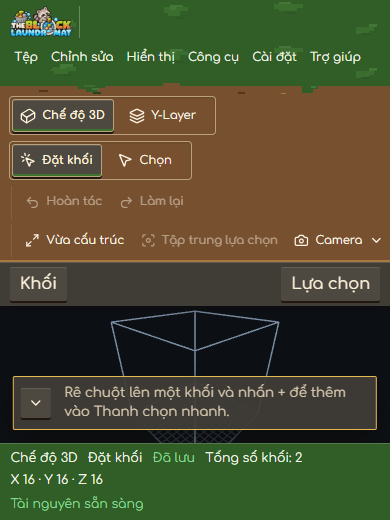
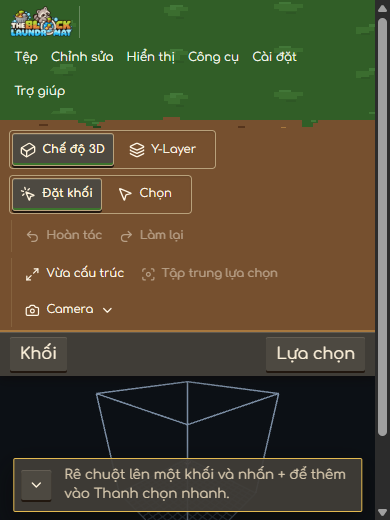
fix: preserve narrow workspace camera controls

diff --git a/Frontend/src/app/features/editor/shell/editor-shell.component.scss b/Frontend/src/app/features/editor/shell/editor-shell.component.scss
@@ -458,7 +458,7 @@
 }
 
 @media (max-width: 560px) and (max-height: 700px) {
-  :host-context([data-font-size='large']) .editor-shell {
+  .editor-shell {
     height: auto;
     min-height: 100dvh;
     grid-template-rows: auto minmax(12rem, 1fr) auto;

diff --git a/Frontend/src/app/features/editor/shell/editor-chrome.component.scss b/Frontend/src/app/features/editor/shell/editor-chrome.component.scss
@@ -505,7 +505,7 @@
     min-width: 10.25rem;
   }
 
-  :host-context([data-font-size='large']) .camera-actions {
+  .camera-actions {
     flex: 1 1 100%;
     flex-wrap: wrap;
     max-width: 100%;

diff --git a/Docs/design/workspace-renovation/WORKSPACE-UI-ACCEPTANCE-INVENTORY.md b/Docs/design/workspace-renovation/WORKSPACE-UI-ACCEPTANCE-INVENTORY.md
@@ -34,8 +34,8 @@ browser pass and the earlier captures catalogued in
 | Help, shortcuts, dialogs                                          | Existing help and shortcut UI recorded; shared close control is now neutral                                | Confirm close/cancel/apply/save behaviors after style changes                                                               | Settings and Shortcuts Help focus return verified; recheck remaining dialogs and reduced motion                               | Medium                     | Current Settings/Help focus-return captures plus earlier captures in [README](README.md)                                              |
 | Context menus, tooltips, overlays                                 | Existing menu stacking fix, tooltip, Asset Manager help, and select popup states documented                | All six application menus are reachable at 320 px in Vietnamese; long File labels wrap and tall popovers scroll internally | Menus and selects dismiss on keyboard focus changes; nested Escape closes the active popup without dismissing its owner         | Medium                     | [Current menu, help, and select evidence](evidence/current-run-20261017/README.md) plus prior context-menu captures in [README](README.md) |
 | Loading, empty, error, warning, success states                    | Several states have dedicated recorded captures                                                            | Current empty Groups/Block Usage and Quick Bar add/remove states verified                                                   | Recheck live regions and recovery actions                                                                                     | Medium                     | Current captures plus state notes in [README](README.md)                                                                              |
-| Responsive layout and sidebar resizing                            | Dark shell and keyboard focus captured at 1600×900 and 780×437; Large-font shell checked at 390×520 across four themes and at 390×600/320×520 in Craft | Arrow keys resize within the reported range; short mobile layout scrolls vertically, preserves a 12rem editor body, and keeps Camera controls and Quick Bar clear of drawer openers | Separators expose localized names/ranges; focus transfers to the matching drawer opener when the handle hides                  | Low                        | [Large-font responsive captures and measurements](evidence/current-run-20261017/README.md#large-workspace-font-at-narrow-and-short-viewports); saved widths restored to 260/230 px |
-| Preferences, locale, fonts, workspace backgrounds                 | All four themes and both locales captured at 1600×900; Comfortaa compact shell at 780×437; all fonts at 390×520 EN/VI in Minecraft theme; Large font checked across all themes/locales at 390×520 plus Craft/Vietnamese at 320×520 and 390×600 | Font fit in other themes at narrow widths and independent Dark/Light/Reality background choices remain open             | Menu-item focus checked in all theme/locale combinations; formal contrast and Small-font size checks remain open               | Medium                  | [Theme/font and viewport matrices](evidence/current-run-20261017/README.md#workspace-theme-and-font-matrix) and [Large-font responsive check](evidence/current-run-20261017/README.md#large-workspace-font-at-narrow-and-short-viewports) |
+| Responsive layout and sidebar resizing                            | Dark shell and keyboard focus captured at 1600×900 and 780×437; normal and Large font checked at 390×520 across four themes | Camera actions wrap at narrow widths for all fonts; when a short screen needs more room the page scrolls and keeps a 12rem editor body, separating Quick Bar from drawer openers | Separators expose localized names/ranges; focus transfers to the matching drawer opener when the handle hides                  | Low                        | [Narrow font matrix](evidence/current-run-20261017/README.md#narrow-workspace-font-sample) and [Large-font responsive captures](evidence/current-run-20261017/README.md#large-workspace-font-at-narrow-and-short-viewports); saved widths restored to 260/230 px |
+| Preferences, locale, fonts, workspace backgrounds                 | Normal-size 3-font/4-theme EN/VI matrix captured at 390×520; Large font checked across all themes/locales at 390×520 plus Craft/Vietnamese at 320×520 and 390×600 | Narrow font and Camera fit verified at 390 px; 320 px normal and Large Craft/Vietnamese also checked; independent Dark/Light/Reality background choices remain open | Menu-item focus checked in all theme/locale combinations; formal contrast and Small-font size checks remain open               | Medium                  | [Narrow font matrix](evidence/current-run-20261017/README.md#narrow-workspace-font-sample), [theme/font matrix](evidence/current-run-20261017/README.md#workspace-theme-and-font-matrix), and [Large-font responsive check](evidence/current-run-20261017/README.md#large-workspace-font-at-narrow-and-short-viewports) |
 | Animation and reduced motion                                      | Default and reduced-motion states captured for Projects and Workspace menus                                | No layout change between motion preferences                                                                                 | The app-wide rule clamps animations and transitions to 1 ms and disables smooth scrolling; remaining animated states still need a pass | Low | [Reduced-motion captures and computed styles](evidence/current-run-20261017/README.md#reduced-motion-across-projects-and-workspace); check remaining animated states and locales |
 | Renderer, large structures, project data                          | Existing 110,592-block browser evidence is recorded                                                        | No renderer, persistence, or domain behavior changed in this pass                                                           | Not applicable to current source edits                                                                                        | Low                        | Earlier renderer evidence in [README](README.md); rerun benchmark only if renderer code changes                                       |
 
@@ -49,7 +49,7 @@ browser pass and the earlier captures catalogued in
 | Application menu focus across themes and locales | Help menu first-item focus ring visible in all four themes and both English and Vietnamese; labels fit at 1600×900 without horizontal overflow | [Eight-state focus matrix](evidence/current-run-20261017/README.md#application-menu-focus-across-themes-and-locales); formal contrast ratios, other menu items, fonts, and viewports remain open |
 | Workspace typography combinations | All 12 theme/font combinations and both English and Vietnamese locales rendered with loaded fonts and no document horizontal overflow at 1600×900 | [24-state Workspace font matrix](evidence/current-run-20261017/README.md#workspace-theme-and-font-matrix); narrow viewport, Small/Large font-size settings, and formal contrast checks remain open |
 | Compact Workspace shell | Closed shell wraps its toolbar, exposes drawer openers, and has no document overflow across four themes and EN/VI at 780×437 | [Eight-state compact shell matrix](evidence/current-run-20261017/README.md#compact-workspace-shell-across-themes-and-locales); drawer contents are handled by their own viewport checks |
-| Narrow Workspace font sample | All three fonts loaded without document overflow at 390×520 in Minecraft theme, EN/VI; Vietnamese header, toolbar, and status bar wrap to extra rows | [Six-state narrow font sample](evidence/current-run-20261017/README.md#narrow-workspace-font-sample); other themes at narrow widths remain open |
+| Narrow Workspace font sample | All three fonts loaded at 390×520 in all four themes and EN/VI; no horizontal overflow, clipped Camera buttons, or Quick Bar/drawer overlap; Comfortaa/Vietnamese scrolls vertically to preserve the editor | [24-state narrow font matrix and 320 px capture](evidence/current-run-20261017/README.md#narrow-workspace-font-sample); 320 px checks for the remaining font/theme pairs and Small font-size settings remain open |
 | Large font at narrow and short viewports | Camera controls fit across all four themes and EN/VI at 390×520; at 320×520 the page scrolls and Quick Bar remains clear of drawer openers | [Before/after, theme, and scrolled captures with geometry](evidence/current-run-20261017/README.md#large-workspace-font-at-narrow-and-short-viewports); other themes at 320/600 and Small-font settings remain open |
 | Project Diagnostics and About dialogs | Both Escape paths close the dialog and return visible focus to Tools or Help; no focus-return issue found | [Diagnostics and About focus-return captures](evidence/current-run-20261017/README.md#project-diagnostics-and-about-focus-return) |
 | Reduced motion across Projects and Workspace | The project-row transition dropped from 120 ms to 1 ms; menu entry animation and trigger transitions also reduce to 1 ms | [Default/reduced captures and computed-style measurements](evidence/current-run-20261017/README.md#reduced-motion-across-projects-and-workspace) |
@@ -90,8 +90,8 @@ browser pass and the earlier captures catalogued in
   and offer a keyboard-accessible Clear search action that restores focus.
 - On narrow viewports, sidebar drawers cover the viewport so their controls and
   results are no longer clipped by the shorter editor work area.
-- With Large font on a narrow viewport, Camera actions wrap within the toolbar.
-  On short screens the shell scrolls vertically and retains a minimum editor
+- On narrow viewports, Camera actions wrap within the toolbar for every font.
+  On short screens the shell grows only as needed and retains a minimum editor
   body height, keeping the Quick Bar below the mobile drawer openers.
 - Native Tab reaches the last virtualized Block Browser item; its compact-row
   quick-add tooltip now flips above the control and remains visible.

diff --git a/Docs/design/workspace-renovation/evidence/current-run-20261017/README.md b/Docs/design/workspace-renovation/evidence/current-run-20261017/README.md
@@ -68,20 +68,40 @@ font variations are covered by separate checks or remain open below.
 
 ## Narrow Workspace font sample
 
-The Minecraft theme was checked at 390×520 in English and Vietnamese with
-Comfortaa, Chakra Petch, and Pangolin. Each font loaded, and Chrome reported no
-document-level horizontal or vertical overflow. The Vietnamese header,
-toolbar, and status bar wrap onto additional rows to keep their labels in the
-viewport. The editor canvas, Quick Bar, and collapsed Blocks/Selection openers
-remain visible. This is a focused small-screen font sample, not a full
-four-theme/font matrix. Large-font behavior is checked separately below;
-Small-font coverage remains open.
+All four themes were checked at 390×520 with Comfortaa, Chakra Petch, and
+Pangolin in English and Vietnamese (24 states). Every font loaded; no state had
+horizontal document overflow, clipped Camera buttons, or overlap between the
+Quick Bar and mobile drawer openers. Comfortaa/Vietnamese wraps the Camera
+actions and grows the page vertically, keeping a 149 px canvas visible; the
+other states fit within the viewport. A separate 320×520 Comfortaa/Vietnamese
+capture confirms the Camera controls stay inside the narrower page. Large-font
+behavior is checked below; the Small font-size setting remains open.
 
-| Font | English | Vietnamese |
-| --- | --- | --- |
-| Comfortaa | [workspace-font-narrow-comfortaa-en-390x520-20261017.png](workspace-font-narrow-comfortaa-en-390x520-20261017.png) | [workspace-font-narrow-comfortaa-vi-390x520-20261017.png](workspace-font-narrow-comfortaa-vi-390x520-20261017.png) |
-| Chakra Petch | [workspace-font-narrow-chakra-petch-en-390x520-20261017.png](workspace-font-narrow-chakra-petch-en-390x520-20261017.png) | [workspace-font-narrow-chakra-petch-vi-390x520-20261017.png](workspace-font-narrow-chakra-petch-vi-390x520-20261017.png) |
-| Pangolin | [workspace-font-narrow-pangolin-en-390x520-20261017.png](workspace-font-narrow-pangolin-en-390x520-20261017.png) | [workspace-font-narrow-pangolin-vi-390x520-20261017.png](workspace-font-narrow-pangolin-vi-390x520-20261017.png) |
+| Theme | Font | English | Vietnamese |
+| --- | --- | --- | --- |
+| Minecraft | Comfortaa | [workspace-font-narrow-comfortaa-en-390x520-20261017.png](workspace-font-narrow-comfortaa-en-390x520-20261017.png) | [workspace-font-narrow-comfortaa-vi-390x520-20261017.png](workspace-font-narrow-comfortaa-vi-390x520-20261017.png) |
+| Minecraft | Chakra Petch | [workspace-font-narrow-chakra-petch-en-390x520-20261017.png](workspace-font-narrow-chakra-petch-en-390x520-20261017.png) | [workspace-font-narrow-chakra-petch-vi-390x520-20261017.png](workspace-font-narrow-chakra-petch-vi-390x520-20261017.png) |
+| Minecraft | Pangolin | [workspace-font-narrow-pangolin-en-390x520-20261017.png](workspace-font-narrow-pangolin-en-390x520-20261017.png) | [workspace-font-narrow-pangolin-vi-390x520-20261017.png](workspace-font-narrow-pangolin-vi-390x520-20261017.png) |
+| Dark | Comfortaa | [workspace-font-narrow-dark-comfortaa-en-390x520-20261017.png](workspace-font-narrow-dark-comfortaa-en-390x520-20261017.png) | [workspace-font-narrow-dark-comfortaa-vi-390x520-20261017.png](workspace-font-narrow-dark-comfortaa-vi-390x520-20261017.png) |
+| Dark | Chakra Petch | [workspace-font-narrow-dark-chakra-petch-en-390x520-20261017.png](workspace-font-narrow-dark-chakra-petch-en-390x520-20261017.png) | [workspace-font-narrow-dark-chakra-petch-vi-390x520-20261017.png](workspace-font-narrow-dark-chakra-petch-vi-390x520-20261017.png) |
+| Dark | Pangolin | [workspace-font-narrow-dark-pangolin-en-390x520-20261017.png](workspace-font-narrow-dark-pangolin-en-390x520-20261017.png) | [workspace-font-narrow-dark-pangolin-vi-390x520-20261017.png](workspace-font-narrow-dark-pangolin-vi-390x520-20261017.png) |
+| Light | Comfortaa | [workspace-font-narrow-light-comfortaa-en-390x520-20261017.png](workspace-font-narrow-light-comfortaa-en-390x520-20261017.png) | [workspace-font-narrow-light-comfortaa-vi-390x520-20261017.png](workspace-font-narrow-light-comfortaa-vi-390x520-20261017.png) |
+| Light | Chakra Petch | [workspace-font-narrow-light-chakra-petch-en-390x520-20261017.png](workspace-font-narrow-light-chakra-petch-en-390x520-20261017.png) | [workspace-font-narrow-light-chakra-petch-vi-390x520-20261017.png](workspace-font-narrow-light-chakra-petch-vi-390x520-20261017.png) |
+| Light | Pangolin | [workspace-font-narrow-light-pangolin-en-390x520-20261017.png](workspace-font-narrow-light-pangolin-en-390x520-20261017.png) | [workspace-font-narrow-light-pangolin-vi-390x520-20261017.png](workspace-font-narrow-light-pangolin-vi-390x520-20261017.png) |
+| Raccoon | Comfortaa | [workspace-font-narrow-raccoon-comfortaa-en-390x520-20261017.png](workspace-font-narrow-raccoon-comfortaa-en-390x520-20261017.png) | [workspace-font-narrow-raccoon-comfortaa-vi-390x520-20261017.png](workspace-font-narrow-raccoon-comfortaa-vi-390x520-20261017.png) |
+| Raccoon | Chakra Petch | [workspace-font-narrow-raccoon-chakra-petch-en-390x520-20261017.png](workspace-font-narrow-raccoon-chakra-petch-en-390x520-20261017.png) | [workspace-font-narrow-raccoon-chakra-petch-vi-390x520-20261017.png](workspace-font-narrow-raccoon-chakra-petch-vi-390x520-20261017.png) |
+| Raccoon | Pangolin | [workspace-font-narrow-raccoon-pangolin-en-390x520-20261017.png](workspace-font-narrow-raccoon-pangolin-en-390x520-20261017.png) | [workspace-font-narrow-raccoon-pangolin-vi-390x520-20261017.png](workspace-font-narrow-raccoon-pangolin-vi-390x520-20261017.png) |
+
+The Comfortaa/Vietnamese captures before the Camera wrap change preserve the
+tight edge fit measured earlier; at 320×520 the Camera group extended about
+70 px past the viewport before the fix:
+
+| Theme | Before-change capture |
+| --- | --- |
+| Dark | [workspace-font-narrow-before-camera-wrap-dark-comfortaa-vi-390x520-20261017.png](workspace-font-narrow-before-camera-wrap-dark-comfortaa-vi-390x520-20261017.png) |
+| Light | [workspace-font-narrow-before-camera-wrap-light-comfortaa-vi-390x520-20261017.png](workspace-font-narrow-before-camera-wrap-light-comfortaa-vi-390x520-20261017.png) |
+| Raccoon | [workspace-font-narrow-before-camera-wrap-raccoon-comfortaa-vi-390x520-20261017.png](workspace-font-narrow-before-camera-wrap-raccoon-comfortaa-vi-390x520-20261017.png) |
+| Dark, 320×520 after change | [workspace-font-narrow-dark-comfortaa-vi-320x520-20261017.png](workspace-font-narrow-dark-comfortaa-vi-320x520-20261017.png) |
 
 ## Large Workspace font at narrow and short viewports
 
@@ -93,12 +113,15 @@ the right edge and the empty Quick Bar hint covered the
 responsive Blocks and Selection openers, even though the document itself did
 not report overflow. The Small-font capture is included as a comparison.
 
-At widths up to 560 px, Large-font Camera controls now wrap within the toolbar.
-When the viewport is at most 700 px high, the Workspace shell grows to its
-content height and the page scrolls vertically; the editor body keeps a
-12rem minimum height. At 390 x 520 the body measured 216 px, the editor canvas
-167 px, and the Quick Bar no longer intersected the drawer openers. At 320 x
-520 all Camera controls remained inside the viewport; scrolling to the bottom
+At widths up to 560 px, Camera controls now wrap within the toolbar for all
+font sizes. At those widths, when the viewport is at most 700 px high, the
+Workspace shell grows to its content height and the page scrolls vertically;
+the editor body keeps a 12rem minimum height. At 390 x 520 with the Large font,
+the body measured 216 px, the editor canvas 167 px, and the Quick Bar no longer
+intersected the drawer openers. With normal Comfortaa/Vietnamese, the 390 x 520
+and 320 x 520 checks kept a 149 px canvas and all Camera controls inside the
+viewport. At 320 x 520 with the Large font, all Camera controls remained
+inside; scrolling to the bottom
 revealed the Quick Bar and status bar. There was no horizontal document
 overflow. At 701 px high the shell returned to the viewport-height layout with
 a 192 px editor canvas and no document overflow. In the other three themes,
